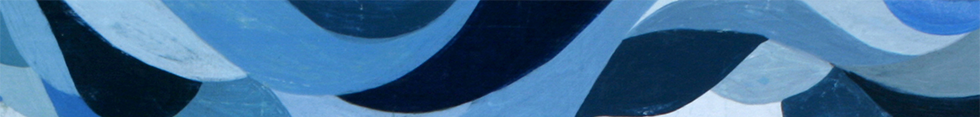
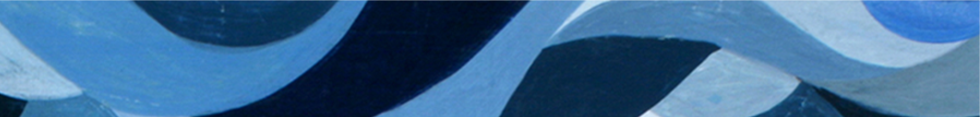
modified css and changed header image
modified stylesheet and body html

diff --git a/stylesheet.css b/stylesheet.css
@@ -12,8 +12,32 @@
 #customHeader
 {
    background-image:url('./images/header.png');
-   height:85pt;
-   font-size:42.0pt;
+   background-repeat:no-repeat;
+   width:980px;
+   height:117px;
    font-family:'EraserDust';
    color:white;
+   /*display:inline;*/
+   /*position:absolute;*/
+}
+
+#headerTitle
+{
+   font-size:42.0pt;
+   /*display:inline;*/
+   /*position:absolute;*/
+}
+
+#headerItems
+{
+   float:right;
+   margin-top:-20px;
+}
+
+#headerItem
+{
+   /*margin-top:-25px;*/
+   /*position:absolute;*/
+   display:inline;
+   padding-left:23px;
 }

diff --git a/header.html b/header.html
@@ -6,6 +6,18 @@
 
 <body>
 
-<div id='customHeader'>Erica Kohl-Arenas</div>
+<div id='customHeader'>
+   <p id='headerTitle'>Erica Kohl-Arenas</p>
+   <span id='headerItems'>
+   <p id='headerItem'>Forthcoming Book: The Self-Help Myth
+   <p id='headerItem'>Bio</p>
+   <p id='headerItem'>Pedagogy and Partnerships</p>
+   <p id='headerItem'>Publications</p>
+   <p id='headerItem'>Consulting</p>
+   <p id='headerItem'>CV</p>
+   <p id='headerItem'>Contact</p>
+   </span>
+</div>
+
 
 </body>
